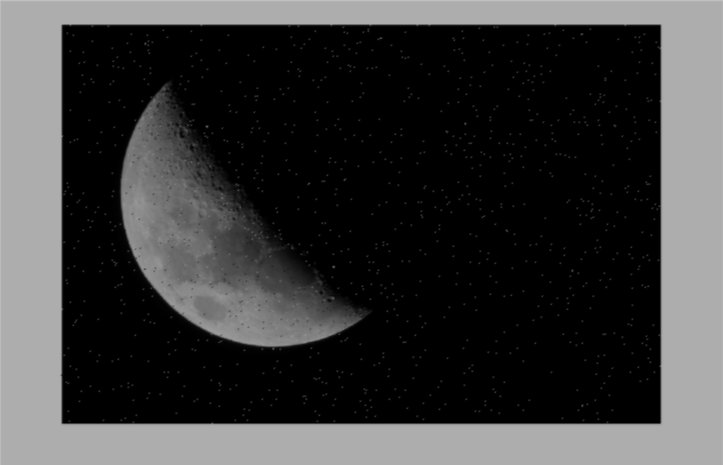
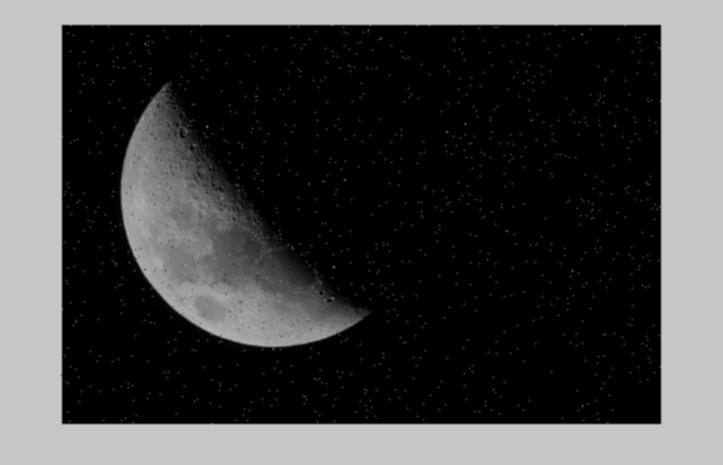
fix apply kernel

Changed region(s): [[0.0, 0.0, 1.0, 1.0]]

diff --git a/parte_2.py b/parte_2.py
@@ -2,6 +2,29 @@ import cv2
 import numpy as np
 
 
+def apply_kernel(img, kernel):
+    sz = kernel.shape[0] // 2
+
+    # add mirror board
+    img_padded = cv2.copyMakeBorder(img, sz, sz, sz, sz, cv2.BORDER_REFLECT)
+
+    # Create output image
+    output_img = np.zeros_like(img_padded, dtype=np.int32)
+
+    for i in range(sz, img_padded.shape[0] - sz):
+        for j in range(sz, img_padded.shape[1] - sz):
+            neigh = img_padded[i - sz:i + sz + 1, j - sz:j + sz + 1]
+            output_img[i, j] = np.sum(neigh * kernel)
+
+    # Remove mirror board
+    output_img = output_img[sz:-sz, sz:-sz]
+
+    # Normalize
+    output_img = np.clip(output_img, 0, 255)
+
+    return output_img.astype(np.uint8)
+
+
 def question_i():
     img = cv2.imread('imagens/entrada/Lua1_gray.jpg', cv2.IMREAD_GRAYSCALE)
 
@@ -15,8 +38,8 @@ def question_i():
 
     c = -1
 
-    laplacian_image_a = cv2.filter2D(src=img, ddepth=-1, kernel=a)
-    laplacian_image_b = cv2.filter2D(src=img, ddepth=-1, kernel=a)
+    laplacian_image_a = apply_kernel(img, a)
+    laplacian_image_b = apply_kernel(img, b)
 
     img_a = img + c * laplacian_image_a
     img_b = img + c * laplacian_image_b

diff --git a/parte_1.py b/parte_1.py
@@ -8,14 +8,16 @@ def apply_kernel(img, kernel):
     # add mirror board
     img = cv2.copyMakeBorder(img, sz, sz, sz, sz, cv2.BORDER_REFLECT)
 
+    result = np.zeros_like(img)
+
     for i in range(sz, img.shape[0] - sz):
         for j in range(sz, img.shape[1] - sz):
-            img[i, j] = np.sum(img[i - sz:i + sz + 1, j - sz:j + sz + 1] * kernel)
+            result[i, j] = np.sum(img[i - sz:i + sz + 1, j - sz:j + sz + 1] * kernel)
 
     # Remove mirror board
-    img = img[sz:-sz, sz:-sz]
+    result = result[sz:-sz, sz:-sz]
 
-    return img
+    return result
 
 
 def question_i():
